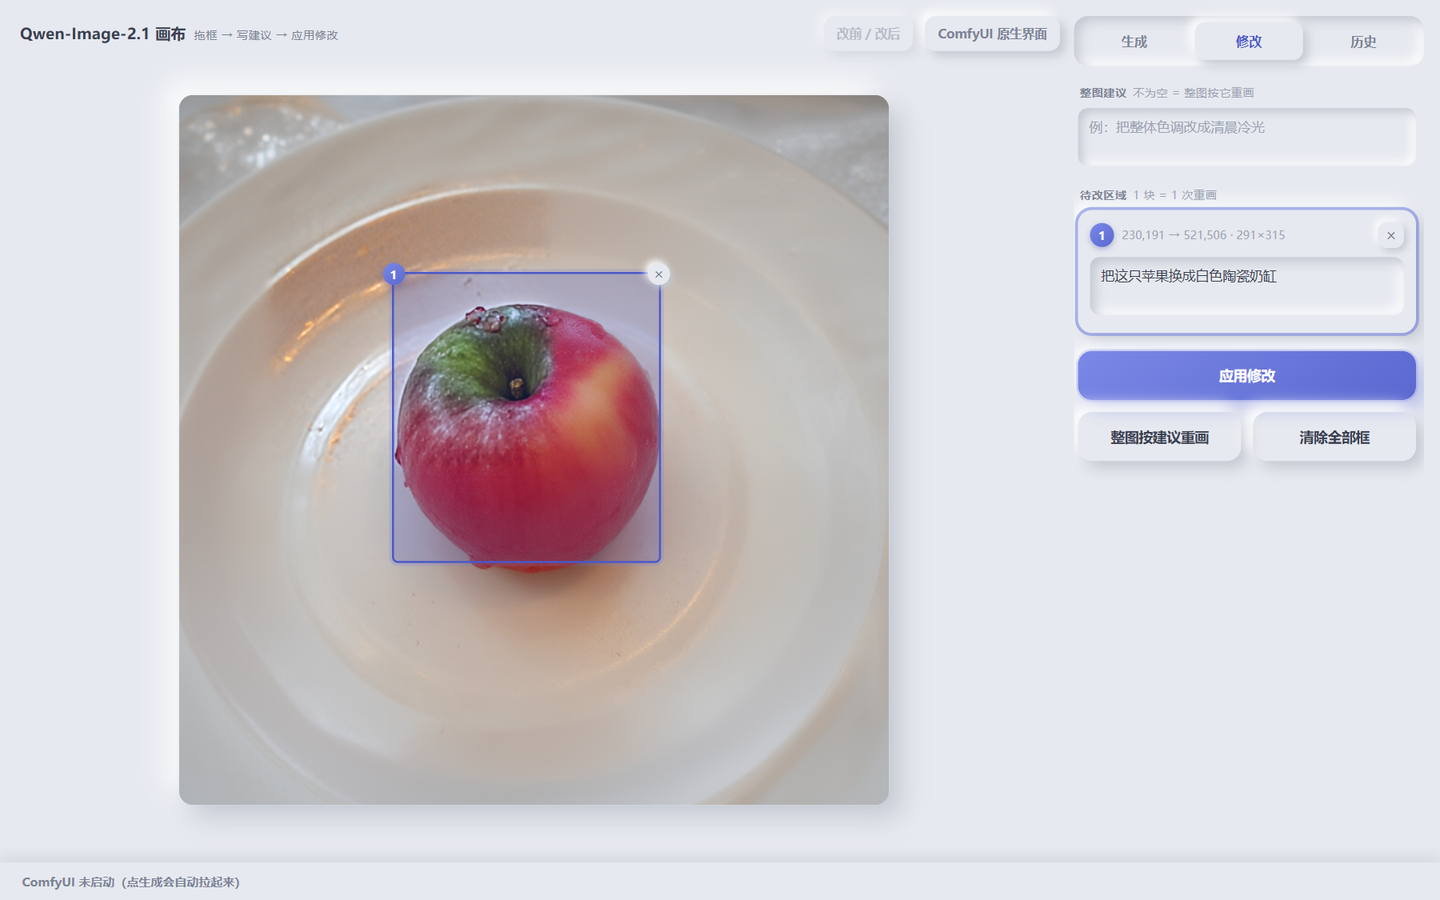
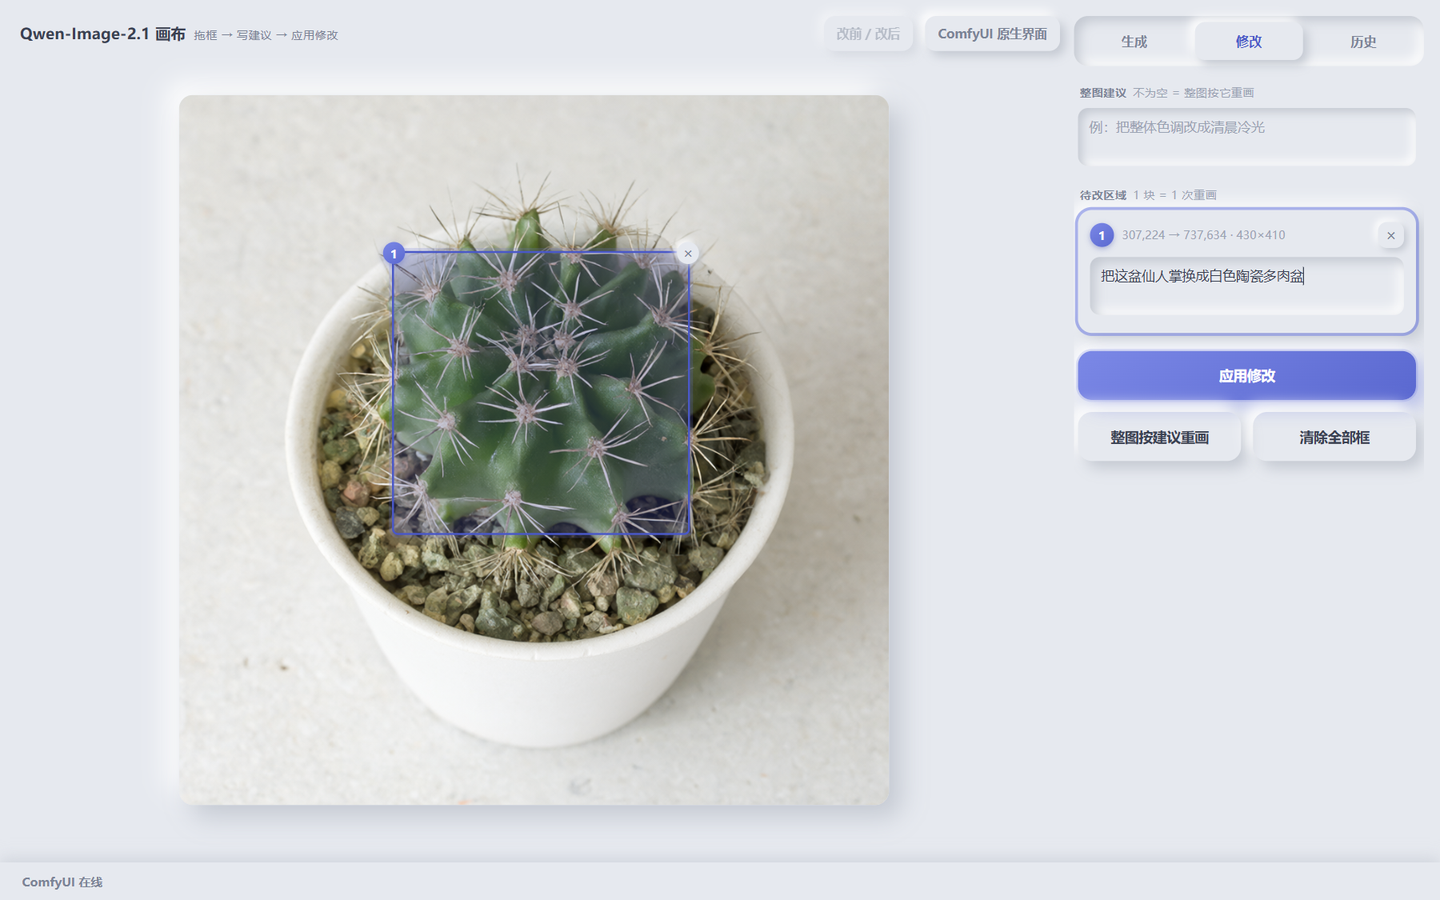
生成页不再摆历史图：画布按页签决定显示谁
生成请求根本不读画布上那张图（只吃提示词/参考图区），摆一张历史图在那儿会让人以为在用它生成、在改它。
新规则（paintStage 一处管）：生成页只显示本次会话生成出来的结果（madeHere），没生成过就是引导文案；
修改/历史页照旧显示当前底图；对比模式下不藏图。README 两张截图也换成新行为（生成 -> 框选）

diff --git a/qwen_canvas.html b/qwen_canvas.html
@@ -437,6 +437,12 @@ let seq = 0, sel = null;
 let refs = [];           // 已上传的参考图文件名
 let hist = [];           // 最近生成的图（名字）
 let busy = false, timer = null, lastFocus = null;
+let madeHere = null;     // 本次会话产出过的图（生成 / 局部重画）——「生成」页只显示它
+let page = 'gen';        // 当前页签
+/* 空态文案：真空态 / 「生成」页不摆历史图时（`showPage('gen')` 在启动时就会用到，必须在这之前定义） */
+const TIP_EMPTY = '还没有图<br>「生成」页填提示词点生成，或在「历史」页点一张<br>' +
+  '<b>出图后在图上按住左键拖一个方框 → 右边「修改」页写一句建议 → 点最下面的「应用修改」</b>';
+const TIP_GEN = '生成页只显示<b>本次生成的结果</b><br>填提示词点「生成」；要看或改历史图，去<b>「历史」</b>页点一张';
 
 const setStatus = t => $('status').textContent = t;
 const setElapsed = t => $('elapsed').textContent = t || '';
@@ -633,8 +639,10 @@ async function api(path, payload){
 /* ---------- 页签 ---------- */
 const tabs = [...document.querySelectorAll('#tabs button')];
 function showPage(name){
+  page = name;
   tabs.forEach(b => b.classList.toggle('on', b.dataset.page === name));
   document.querySelectorAll('.page').forEach(p => p.classList.toggle('on', p.id === 'page-' + name));
+  paintStage();
 }
 tabs.forEach(b => b.onclick = () => showPage(b.dataset.page));
 showPage('gen');
@@ -677,6 +685,16 @@ const segSize = makeSeg($('segSize'), {items:[512,768,1024,1536,2048], value:102
   onChange: v => sizeSel.v = v});
 
 /* ---------- 显示 ---------- */
+/* 「生成」页**只显示本次会话生成出来的结果**：历史图不摆在那儿当预览（生成请求根本不读它，
+   摆着会让人以为"在用它生成 / 在改它"）。「修改 / 历史」页照旧显示当前底图；对比模式下别把图藏掉。 */
+function paintStage(){
+  const showIt = !!current && (page !== 'gen' || current === madeHere || cmpState.on);
+  wrap.style.display = showIt ? 'inline-block' : 'none';
+  const e = $('empty');
+  e.style.display = showIt ? 'none' : 'block';
+  if(!showIt) e.innerHTML = (hist.length || current) ? TIP_GEN : TIP_EMPTY;
+}
+
 function show(name, opt){
   const o = opt || {};
   current = name;
@@ -684,8 +702,7 @@ function show(name, opt){
   img.src = '/img?name=' + encodeURIComponent(name) + '&dir=output';
   img.onload = () => {
     natural = [img.naturalWidth || 1024, img.naturalHeight || 1024];
-    wrap.style.display = 'inline-block';
-    $('empty').style.display = 'none';
+    paintStage();
     render();
     if(o.reveal) pixelReveal();     // 新图落盘才做像素化淡入
   };
@@ -866,9 +883,8 @@ function clearCanvas(){
   cmpState.before = cmpState.after = null;
   current = null; regions = []; sel = null;
   img.removeAttribute('src');
-  wrap.style.display = 'none';
   boxes.innerHTML = '';
-  $('empty').style.display = 'block';
+  paintStage();
   renderRegions();
   renderHist();
   updateCmpBtn();
@@ -880,6 +896,7 @@ async function deleteHist(name){
   try{
     await api('/api/delete', {name});
     hist = hist.filter(n => n !== name);
+    if(madeHere === name) madeHere = null;
     if(current === name){
       const next = hist[0];
       if(next) show(next); else clearCanvas();
@@ -1040,6 +1057,7 @@ $('btnGen').onclick = async () => {
     });
     j.images.forEach(pushHist);
     regions = []; sel = null;
+    madeHere = j.images[j.images.length - 1];      // 本次产物：「生成」页就显示它
     show(j.images[j.images.length - 1], {reveal: true});
     stopTimer('生成完成', j.seconds);
     setMsg(`生成完成 ${j.seconds}s，${j.images.length} 张 —— 到「修改」页拖框`, true);
@@ -1063,6 +1081,7 @@ $('btnApply').onclick = async () => {
     pushHist(j.image);
     regions = []; sel = null;
     cmpState.before = before; cmpState.after = j.image;    // 给「改前 / 改后」对比用
+    madeHere = j.image;
     show(j.image, {reveal: true});
     stopTimer('改完', j.seconds);
     setMsg(`改完 ${j.seconds}s（${j.passes.length} 块）→ ${j.image}`, true);
@@ -1085,6 +1104,7 @@ $('btnWhole').onclick = async () => {
     pushHist(j.image);
     regions = []; sel = null;
     cmpState.before = before; cmpState.after = j.image;
+    madeHere = j.image;
     show(j.image, {reveal: true});
     stopTimer('改完', j.seconds);
     setMsg(`整图重画完成 ${j.seconds}s → ${j.image}`, true);

diff --git a/CANVAS_NOTES.md b/CANVAS_NOTES.md
@@ -58,6 +58,16 @@
 
 新拟态（浅灰底 + 双向柔和阴影）、零原生控件：左边常驻画布，右边三个页签，底部状态栏。
 
+**画布显示谁，按页签分**（`paintStage()` 一处管）：
+
+| 页签 | 画布显示 |
+|---|---|
+| 生成 | **只显示本次会话生成出来的结果**（`madeHere`：`/api/generate` 或「整图重画」刚返回的那张）；没生成过就显示引导文案「生成页只显示本次生成的结果…」。生成请求根本不读画布上那张图（只吃提示词 / 参考图区），摆一张历史图在那儿只会让人以为"在用它生成 / 在改它" |
+| 修改 / 历史 | 当前底图（`current`）—— 修改页它就是真输入 |
+
+对比模式（`cmpState.on`）下不藏图。**注意 `showPage('gen')` 在启动时就会跑，所以 `TIP_*` 这些常量必须定义在它之前**
+（放后面会 TDZ：`Cannot access 'TIP_EMPTY' before initialization`，整个页面脚本静默死掉——空网格 + 状态栏停在"就绪"就是这样来的）。
+
 | 页签 | 内容 |
 |---|---|
 | **生成** | 提示词 / 尺寸（512·768·1024·1536·2048 分段胶囊）/ 步数 / 张数 / 种子（自绘步进器 − 值 +）/ 参考图区 / 生成 |

diff --git a/README.md b/README.md
@@ -88,6 +88,10 @@ REM 3) 起面板并开浏览器
 底部状态栏。所有控件自绘（`appearance:none`）、滚动条自绘、连删图确认框都是自绘的（Esc / 点背景 = 取消，
 Enter = 确定）。
 
+左边那块画布显示谁，按页签分：**「生成」页只显示本次会话生成出来的结果**（没生成过就是一句引导文案），
+**「修改 / 历史」页显示当前底图**。理由：生成请求根本不读画布上那张图（它只吃提示词和参考图区），
+在生成页摆一张历史图只会让人以为"在用它生成 / 在改它"。
+
 | 页签 | 内容 |
 |---|---|
 | **生成** | 提示词 / 尺寸（512·768·1024·1536·2048）/ 步数 / 张数 / 种子（− 值 + 步进器）/ 参考图 / 生成 |
